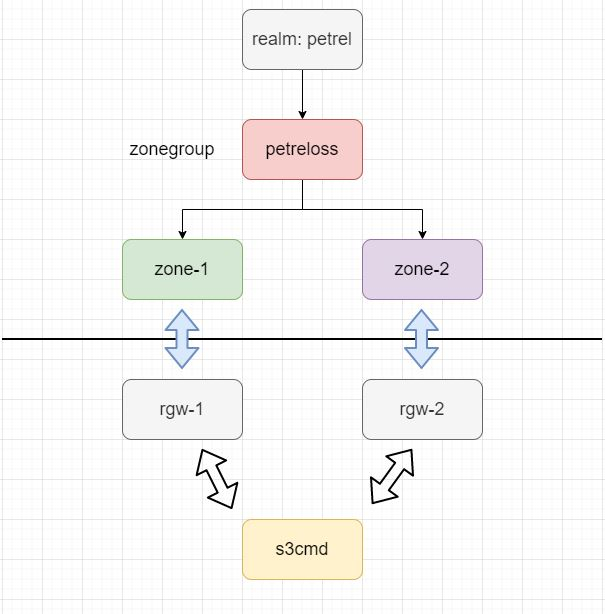
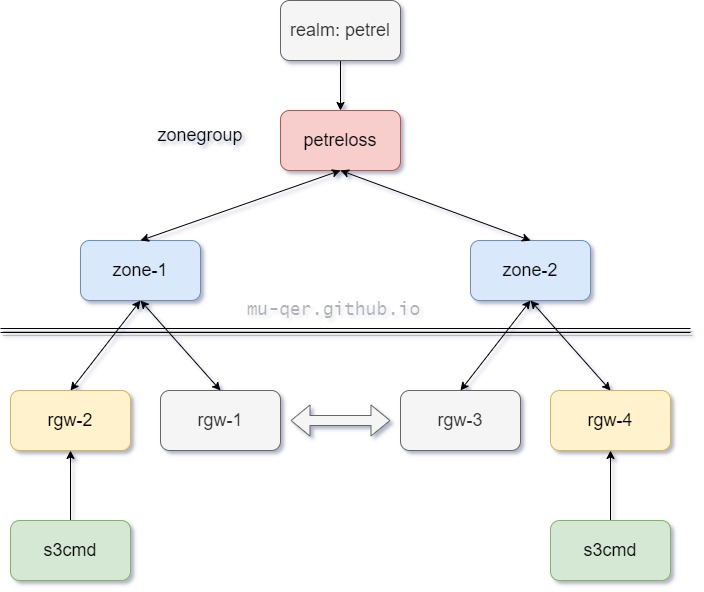
修改 multisite

Changed region(s): [[0.0, 0.0, 1.0, 1.0], [0.0, 0.8514, 0.2083, 1.0], [0.2083, 0.2128, 0.357, 0.2736]]

diff --git a/_posts/ceph/2020-09-25-rgw-multisite-2.md b/_posts/ceph/2020-09-25-rgw-multisite-2.md
@@ -1,54 +1,29 @@
 ---
 layout: post
-title: rgw multisite
-date: 2020-09-20 23:30:09
+title: rgw multisite 扩展已有集群
+date: 2020-09-25 23:30:09
 categories: Ceph
 description: ceph-rgw多活
 tags: Ceph
 ---
 
 
+# 1. 说明
+本篇文章介绍两个已有集群融合后的数据同步
+> 上篇文章 rgw multisite写了关于两个集群之间zone的数据同步部署和测试。其中zone1,zone2之间满足条件：
+> - 1. zone1: 新集群 && zone2: 新集群
+> - 2. zone1: 已有集群 && zone2: 新集群
 
-# 1.multisite 说明
-> 多数据中心 (multisite) 旨在实现异地双活，提供了备份容灾的能力。 
+# 2. 现有的两个集群环境说明
+## zone1
 
-> 主节点在对外提供服务时，用户数据在主节点落盘后即向用户回应“写成功”应答，然后实时记录数据变化的相关日志信息。备节点则实时比较主备数据差异，并及时将差异化数据拉回备节点。异步复制技术适用于远距离的容灾方案，对系统性能影响较小。
 
-# 2.概念说明
-- realm代表一个命名空间, 一个 realm 包含一个或多个zonegroup (zg之前被称为 region, 一般表示一个数据中心), 一个zg包含一个或多个zone, zone包含bucket, bucket中存放数据
-
-> 每个realm都有与之对应period（表示一个realm的有效期）。每个period及时地代表了zonegroup的状态和zone的配置。每次需要对zonegroup或者zone做修改的时，需要更新period，并提交。
-- 单个数据中心的配置一般由一个zonegroup组成，这个zonegroup包含一个zone和一个或者多个rgw实例。在这些rgw中可以平衡网关请求。
-> - 元数据在同一realm的zone之间进行同步
-> - 实体数据只在同一zg中的主zone和从zone之间同步,无法跨zg访问实体数据信息。
-
-# 3.multisite 结构
-- zone: 对应一个独立的集群，有一组 RGW 对外提供服务
-- zonegroup: 每个zg可包含多个 zone, zone之间同步数据和元数据
-- realm: 每个realm包含多个zg, zg之间同步数据
-结构如下：
-![rgw-multisite-struct](https://mu-qer.github.io/assets/img/ceph/2020-09-15-rgw-multisite-struct-01.JPG)
-
-> master zone 和 secondly zone 有两种模式：active-active 和 active-passive。
-> - active-active 模式下master和slave 都可以读写，数据会自动同步 
-> - active-passive 下，只能在master 写入
+## zone2
  
 # 4.multisite 集群搭建
 multisite集群模型如下:
 
 ![rgw-multisite-cluster](https://mu-qer.github.io/assets/img/ceph/2020-09-15-rgw-multisite-cluster-01.JPG)
-
-这里有两个ceph集群，其中zone1将作为master, zone2将作为slave:
-- 集群1包括：zone-1, rgw-1, rgw-2
-- 集群2包括：zone-2, rgw-3, rgw-4
-其中，rgw-1 和 rgw-3是两个集群用于sync的网关。rgw-2 和 rgw-4是两个集群各自对外提供服务的网关，具体信息如下：
-| rgw name | address |
-| -------- | ------- |
-| rgw-1    | 192.168.2.27:80 |
-| rgw-2    | 192.168.2.40:80 |
-| rgw-3    | 192.168.2.167:80 |
-| rgw-4    | 192.168.2.166:80 |
-
 
 ## 4.1 创建master-zone/zg/realm
 在master zone集群中创建 realm, zonegroup, master zone
